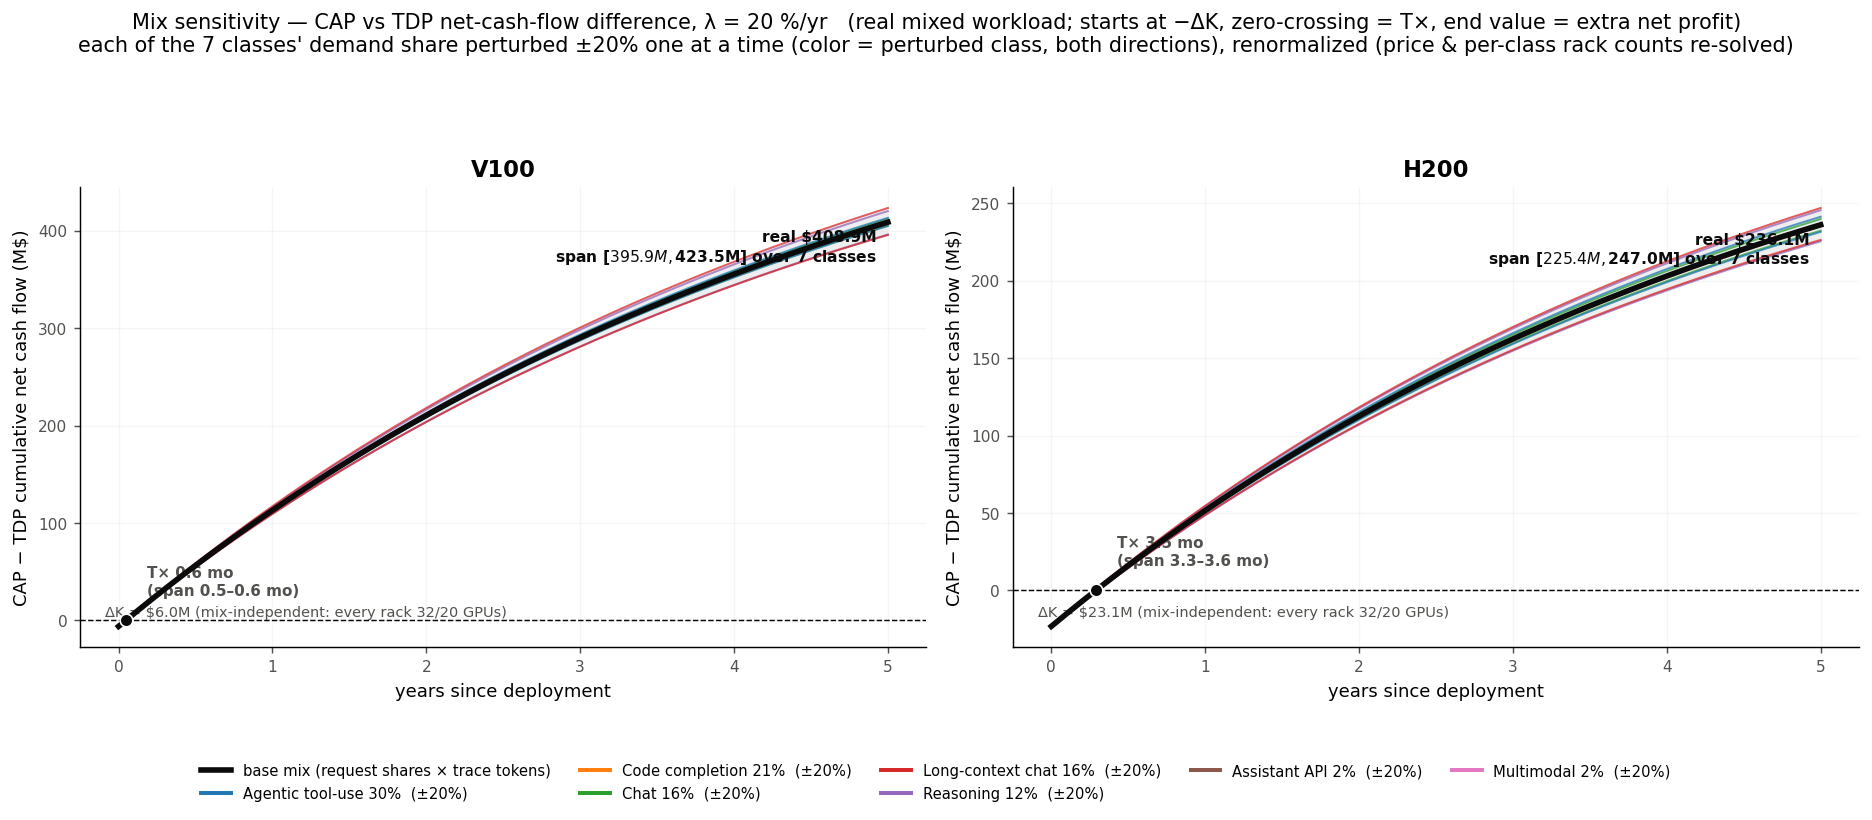
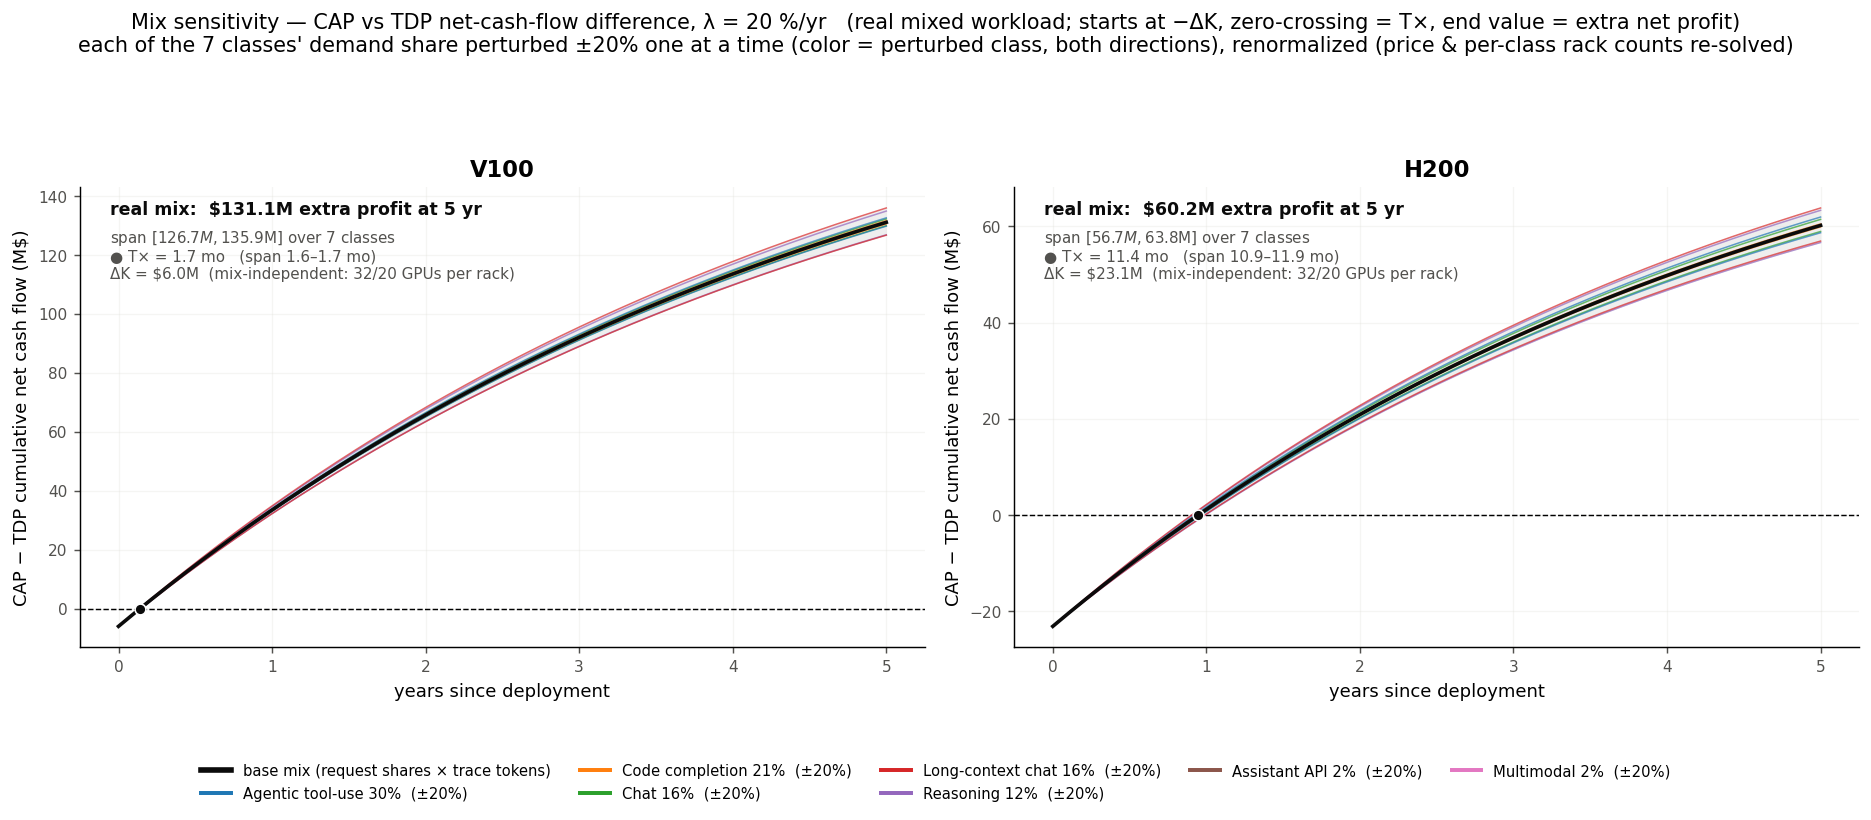
fix eco

diff --git a/workload_analysis/plot_profit_model.py b/workload_analysis/plot_profit_model.py
@@ -62,6 +62,12 @@ PRICE = {"推理": (5.0, 25.0),           # reasoning models = flagship tier
          "助手API": (1.0, 5.0),         # programmatic API tasks, Haiku tier
          "代码补全": (1.0, 5.0)}        # IDE inline completion = fast/cheap models (agent coding is Agentic)
 DEFAULT_PRICE = (1.0, 5.0)
+# Haircut applied to every listed price. The throughput curves are MEASURED on small models
+# (phi3-mini / qwen-3B / qwen-7B — what the testbed can run) while the list prices above are the
+# market rate of the much larger models that really serve these classes; charging flagship rates for
+# small-model token volume overstates absolute revenue. 1/3 is a deliberate conservative discount on
+# that mismatch (see ECONOMICS.md §6). Set to 1.0 to recover raw list prices.
+PRICE_SCALE = 1.0 / 3.0
 T_YR_S = 365.0 * 86400.0  # seconds/yr (~3.15e7, eq. 6)
 CLUSTER_MW = 1.0          # cluster IT power both policies are normalized to
 DECAYS = [0.0, 0.10, 0.20, 0.30]   # price annual decay rates lambda (columns of group 1)
@@ -96,7 +102,7 @@ GREEN, RED, GOLD, MUTE, GRID = "#2ca02c", "#d62728", "#cc6600", "#52514e", "#e1e
 # ---- per-rack economics (eq. 1-7; lambda-independent) -----------------------------------------
 def econ(m, X, P_w, kappa, c_g, price):
     """price = (pi_p, pi_d) for THIS class in $/Mtok (eq. 8 per-class pricing)."""
-    pi_p, pi_d = price[0] / 1e6, price[1] / 1e6
+    pi_p, pi_d = price[0] * PRICE_SCALE / 1e6, price[1] * PRICE_SCALE / 1e6
     K = m * c_g
     D = (K - SALVAGE) / N_YR
     E = ELEC * PUE * (P_w / 1000.0) * 8760.0
@@ -239,7 +245,10 @@ def fig_group1(dev_cl):
     fig.text(0.5, 0.008,
              f"mixed workload (per-class racks summed, N_j ∝ w_j/X_j; w = est. request shares × trace tokens/req, 7 II-C classes)  ·  "
              f"n={N_YR:.0f} yr S=0 · e=\\${ELEC:.2f}/kWh × PUE {PUE} · μ={MU:.0%} · "
-             f"per-class 2026 tier price (reasoning/agentic \\$5/\\$25 · long-ctx \\$3/\\$15 · chat/multimodal \\$2/\\$10 · API/completion \\$1/\\$5 per Mtok) · "
+             f"per-class 2026 tier price × {PRICE_SCALE:.3g} small-model haircut "
+             f"(reasoning/agentic \\${5*PRICE_SCALE:.2f}/\\${25*PRICE_SCALE:.2f} · long-ctx \\${3*PRICE_SCALE:.2f}/\\${15*PRICE_SCALE:.2f} · "
+             f"chat/multimodal \\${2*PRICE_SCALE:.2f}/\\${10*PRICE_SCALE:.2f} · API/completion \\${1*PRICE_SCALE:.2f}/\\${5*PRICE_SCALE:.2f} per Mtok; "
+             f"blended \\${dev_cl['V100']['CAP']['pi']*1e6:.2f}) · "
              f"c_g \\${C_G['V100']:,.0f}(V100)/\\${C_G['H200']:,.0f}(H200)  ·  100% util, SLO not priced",
              ha="center", fontsize=7.5, color=MUTE)
     fig.tight_layout(rect=(0, 0.045, 1, 0.94))
@@ -280,7 +289,7 @@ def fig_group2(classes_by_dev, w0):
         for c in [c for c in classes if w0[c["klass"]] > 0]:   # active classes × {+20%, −20%}
             for fac in (1 + MIX_SHIFT, 1 - MIX_SHIFT):
                 dy, _ = dcf(dev, classes, perturb_mix(w0, c["klass"], fac))
-                ax.plot(t, dy, color=ccol[c["klass"]], lw=1.1, alpha=.75, zorder=3)
+                ax.plot(t, dy, color=ccol[c["klass"]], lw=0.85, alpha=.7, zorder=3)
                 curves.append(dy)
                 tc = first_cross(t, dy)
                 if tc is not None:
@@ -293,21 +302,25 @@ def fig_group2(classes_by_dev, w0):
         band = np.array(curves)
         lo, hi = band.min(0), band.max(0)
         ax.fill_between(t, lo, hi, color="#9a9a9a", alpha=.16, zorder=1, lw=0)   # sensitivity envelope
-        ax.plot(t, base_dy, color=INK, lw=3.1, zorder=6, label="real mix (measured proportions)")
+        ax.plot(t, base_dy, color=INK, lw=2.0, zorder=6, label="real mix (measured proportions)")
         ax.axhline(0, color="k", ls="--", lw=0.8)
 
         tx0 = first_cross(t, base_dy)
         if tx0 is not None:
-            ax.plot(tx0, 0, "o", color=INK, ms=7, mec="white", mew=0.9, zorder=7)
-        ax.annotate(f"real {fmt_m(base_dy[-1]*1e6)}\nspan [{fmt_m(lo[-1]*1e6)}, {fmt_m(hi[-1]*1e6)}]"
-                    f" over {len(order)} classes", (t[-1], base_dy[-1]), textcoords="offset points",
-                    xytext=(-6, -4), ha="right", va="top", fontsize=8.6, color=INK, weight="bold")
-        if txs:
-            ax.annotate(f"T× {fmt_pb(tx0)}\n(span {min(txs)*12:.1f}–{max(txs)*12:.1f} mo)",
-                        (tx0, 0), textcoords="offset points", xytext=(12, 14), fontsize=8.4,
-                        color=MUTE, weight="bold")
-        ax.text(0.03, 0.06, f"ΔK = {fmt_m(dK)} (mix-independent: every rack 32/20 GPUs)",
-                transform=ax.transAxes, va="bottom", ha="left", fontsize=8, color=MUTE)
+            ax.plot(tx0, 0, "o", color=INK, ms=6, mec="white", mew=0.9, zorder=7)
+        # all readouts consolidated into the upper-left dead space (the curves rise left-to-right, so
+        # nothing is ever drawn there) instead of pinned to the endpoint/crossing, where they collided
+        # with the lines they were labelling.
+        ANCHOR = (0.035, 0.97)
+        ax.annotate(f"real mix:  {fmt_m(base_dy[-1]*1e6)} extra profit at {N_YR:.0f} yr", ANCHOR,
+                    xycoords="axes fraction", va="top", ha="left", fontsize=9.6, color=INK,
+                    weight="bold", zorder=8)
+        ax.annotate(f"span [{fmt_m(lo[-1]*1e6)}, {fmt_m(hi[-1]*1e6)}] over {len(order)} classes\n"
+                    f"● T× = {fmt_pb(tx0)}"
+                    + (f"   (span {min(txs)*12:.1f}–{max(txs)*12:.1f} mo)" if txs else "")
+                    + f"\nΔK = {fmt_m(dK)}  (mix-independent: 32/20 GPUs per rack)",
+                    ANCHOR, xycoords="axes fraction", textcoords="offset points", xytext=(0, -15),
+                    va="top", ha="left", fontsize=8.4, color=MUTE, zorder=8)
         ax.set_title(f"{dev}", fontsize=12.5, weight="bold")
         ax.set_xlabel("years since deployment", fontsize=10)
         ax.set_ylabel("CAP − TDP cumulative net cash flow (M$)", fontsize=10)

diff --git a/workload_analysis/ECONOMICS.md b/workload_analysis/ECONOMICS.md
@@ -7,8 +7,11 @@ token 份额等）× 各类 trace 实测的每请求 token 数；各类按 **202
 
 结论（λ=20% 为代表）：**两种硬件 capping 都显著占优且盈利**——
 
-- **V100**：Φ_CAP $1,100M vs TDP $691M / MW·5yr，末端利润 **1.59 倍**，额外投资 **~0.6 个月**回本。
-- **H200**：Φ_CAP $1,018M vs TDP $782M，**1.30 倍**，约 **3.5 个月**回本。
+- **V100**：Φ_CAP $351M vs TDP $220M / MW·5yr，末端利润 **1.60 倍**，额外投资 **~1.7 个月**回本。
+- **H200**：Φ_CAP $287M vs TDP $226M，**1.27 倍**，约 **11.4 个月**回本。
+
+> 💵 **定价口径**：分档价按 §5 的 **1/3 折价**（`PRICE_SCALE`）计入——吞吐是小模型实测、挂牌价是
+> 旗舰模型市场价，两者档位不匹配，折价是对该错配的保守修正，详见 §6 第 3 条。
 
 > 脚本 [`plot_profit_model.py`](plot_profit_model.py) 产出两组图：
 > - **第一组** [`fig_profit_model.png`](fig_profit_model.png)：2 行（V100/H200）× 4 列（价格年降率
@@ -69,9 +72,10 @@ $\bar\rho$ 与 $\overline{L_p}/\overline{L_d}$）与按类求解的
 **Agentic 30.3% · 代码补全 21.5% · 对话 16.4% · 长上下文 15.5% · 推理 12.3% · 助手API 2.3% ·
 多模态 1.7%**——请求少但每步上下文巨大的 Agentic 成为最大 token 消耗方。
 
-**分档定价 $\pi^{(j)}$（2026-07 查证）**：推理、Agentic → 旗舰 **$5/$25**；长上下文 → **$3/$15**；
+**分档定价 $\pi^{(j)}$（2026-07 查证挂牌价）**：推理、Agentic → 旗舰 **$5/$25**；长上下文 → **$3/$15**；
 对话、多模态 → **$2/$10**；助手 API、代码补全（IDE 行内补全跑轻量专用模型；agent 式写码在
-Agentic 类）→ **$1/$5**。混合平均 **$4.83/Mtok**。
+Agentic 类）→ **$1/$5**。全部再乘 **1/3 小模型折价**（`PRICE_SCALE`，§6 第 3 条），
+实际入模均价 **$1.61/Mtok**（挂牌混合均价 $4.83）。
 
 **按类分机架**：$N_j\propto w_j/X_j$（产能匹配需求份额），集群 = 各机架之和（1 MW：V100 200 机架 /
 H200 71 机架，两方案同机架数同功率）。机架份额被慢类主导：V100 上 **Agentic 41% + 长上下文 27% +
@@ -83,20 +87,22 @@ H200 71 机架，两方案同机架数同功率）。机架份额被慢类主导
 
 | 硬件 | λ=0 | λ=10% | λ=20% | λ=30% | T× | G |
 |---|--:|--:|--:|--:|--:|--:|
-| **V100** | 1754 / 1103 | 1375 / 864 | 1100 / 691 | 897 / 563 | 0.5–0.6 mo | **1.59** |
-| **H200** | 1656 / 1266 | 1286 / 985 | 1018 / 782 | 820 / 631 | 3.4–3.5 mo | **1.30–1.31** |
+| **V100** | 569 / 357 | 443 / 278 | 351 / 220 | 283 / 177 | 1.7 mo | **1.59–1.60** |
+| **H200** | 499 / 388 | 376 / 294 | 287 / 226 | 221 / 176 | 10.3–12.0 mo | **1.25–1.29** |
 
-- **T× 与 G 对 λ 几乎不动**：回收发生在极早期（价格未衰减），衰减只等比压低两条曲线，相对优势稳健。
-- **V100 G 更高（1.59 vs 1.30）**：便宜卡上"多装 60% 的卡"杠杆更大；H200 折旧占比高摊薄相对增益，
-  但绝对量仍是每 MW 5 年多赚 **$236M**（V100 **$409M**）。
+- **G 对 λ 稳健**：衰减近似等比压低两条曲线，V100 的 1.59→1.60、H200 的 1.29→1.25 都在几个百分点内。
+- **T× 对 λ 的敏感度随回收期变长而上升**：V100 回收在 1.7 个月（价格几乎未衰减），λ 扫描下不动；
+  H200 回收要 ~1 年，落进了价格衰减区间，λ 从 0 到 30% 把它从 10.3 推到 12.0 个月。
+- **V100 G 更高（1.60 vs 1.27）**：便宜卡上"多装 60% 的卡"杠杆更大；H200 折旧占比高摊薄相对增益，
+  绝对量是每 MW 5 年多赚 **$60M**（V100 **$131M**）。
 
 **第二组（混合敏感性，λ=20%）**——CAP−TDP 差值，起点 −ΔK（混合无关：每机架恒 32/20 卡），
 每类份额 ±20% 逐类扰动（2×7 条曲线成带）：
 
 | 硬件 | ΔK | T×（基准/带） | 5 年多赚 ΔΦ(n)（基准/带） |
 |---|--:|--:|--:|
-| **V100** | $6.0M | 0.6 mo（0.5–0.6） | **+$409M**（带 [+396, +424]） |
-| **H200** | $23.1M | 3.5 mo（3.3–3.6） | **+$236M**（带 [+225, +247]） |
+| **V100** | $6.0M | 1.7 mo（1.6–1.7） | **+$131M**（带 [+127, +136]） |
+| **H200** | $23.1M | 11.4 mo（10.9–11.9） | **+$60M**（带 [+57, +64]） |
 
 带的上下界主要由**长上下文对话**与**推理**的扰动决定（低吞吐放大机架份额）。**带全为正、过零点
 集中**——任一单类份额 ±20% 的估计误差不改变"capping 更赚"的结论。
@@ -108,14 +114,28 @@ H200 71 机架，两方案同机架数同功率）。机架份额被慢类主导
 - **按设备标定**：$c_g$ 与吞吐/功耗数据。**全组共用**：$e$、$\beta$、$\mu$、$n$、按类价 $\pi^{(j)}$；
   λ 是第一组列变量（第二组固定 20%）。
 - **取值**：$c_g=$ **\$2.5k(V100)/\$27k(H200)** · $n=$ **5 年**、$S=0$ · $e=$ **\$0.10/kWh** ·
-  $\beta=$ **1.1** · $\mu=$ **4%** · 集群 **1 MW** · ΔK = **$6.0M / $23.1M**。
+  $\beta=$ **1.1** · $\mu=$ **4%** · 集群 **1 MW** · ΔK = **$6.0M / $23.1M** ·
+  `PRICE_SCALE` = **1/3**（挂牌分档价的小模型折价，见 §6 第 3 条；置 1.0 即恢复挂牌价）。
 
 ## 6. 局限
 
 - **未建模延迟/SLO（最重要）**：capping 收益是上界。交互类（对话/补全/agentic 逐步）需 cap 下界。
 - **需求全售（利用率 100%）**；需求受限时在收入乘利用率系数。
-- **⚠ 定价档 vs 吞吐口径不一致（最大数值 caveat，偏乐观）**：价取旗舰/中档模型市场价，吞吐曲线来自
-  小模型实测（实验所能测）。相对结论（G、T×）对此不敏感（价格是两方案公因子），绝对 $ 偏高。
+- **⚠ 定价档 vs 吞吐口径不一致（最大数值 caveat，仍偏乐观）**：吞吐曲线是 phi3-mini / qwen-3B /
+  qwen-7B 的实测（实验平台所能跑），挂牌价却是真正承载这些类的旗舰/中档模型的市场价。**已按 1/3
+  折价**（`PRICE_SCALE`），但同档小模型 2026 市场价约 **$0.05–0.20/Mtok**，即挂牌均价的 1/100–1/25，
+  所以 $1.61/Mtok 仍在真实小模型价之上，绝对 $ 依旧偏高。
+- **⚠ 价格不是两方案的公因子（此前表述有误）**：capping 多花的 ΔK 与价格无关，价格降低时收入差
+  同比缩小而 ΔK 不变，因此**结论存在价格下界**。λ=20% 下的盈亏平衡混合均价：
+
+  | 硬件 | CAP 优于 TDP 需 | 该方案自身 Φ(n)>0 需 |
+  |---|--:|--:|
+  | **V100** | > **\$0.091**/Mtok | \$0.102(CAP) / \$0.109(TDP) |
+  | **H200** | > **\$0.508**/Mtok | \$0.347(CAP) / \$0.296(TDP) |
+
+  当前 \$1.61/Mtok 对两者都留有余量（V100 ~18×，H200 ~3.2×）；但若按最低档小模型真实价
+  （~\$0.16/Mtok）核算，**H200 会落到 \$0.508 之下、capping 反而更亏**，V100 仍成立。
+  H200 的结论对定价档的依赖显著强于 V100。
 - **请求份额 $r_j$ 置信度不一**（表格已标）：代码补全高（两处独立实测），Agentic/助手API/多模态低
   （估计成分大）；第二组敏感性图正是量化其影响——符号结论对 ±20% 稳健。
 - **锚定映射的规模 caveat**（长上下文/Agentic 用 32k summarize 曲线，保守）见

diff --git a/workload_analysis/README.md b/workload_analysis/README.md
@@ -40,7 +40,8 @@
 - `plot_profit_model.py` —— **论文经济模型**(式 (1)–(15))按 II-C 七类混合核算 CAP vs TDP 的
   **累计净现金流**(起点 −K,末端 = Φ(n)):混合 w_j = **研究查证的请求份额 r_j**(ServeGen 实测
   请求量、Copilot/Cursor 补全规模、OpenRouter 份额;逐类置信度见 ECONOMICS.md §3)× 各类 trace
-  每请求 token 数;各类 2026 分档定价(式 8);N_j ∝ w_j/X_j 按类分机架,1 MW 集群。两组图:
+  每请求 token 数;各类 2026 分档定价(式 8)× **1/3 小模型折价**(`PRICE_SCALE`,见 ECONOMICS.md
+  §6);N_j ∝ w_j/X_j 按类分机架,1 MW 集群。两组图:
   `fig_profit_model.png`(2×4,设备 × λ=0/10/20/30%,标注 T× 与 G)·
   `fig_profit_mix.png`(1×2,每类份额 ±20% 逐类扰动敏感带)· `profit_model.csv`;
   详见 [ECONOMICS.md](ECONOMICS.md)
